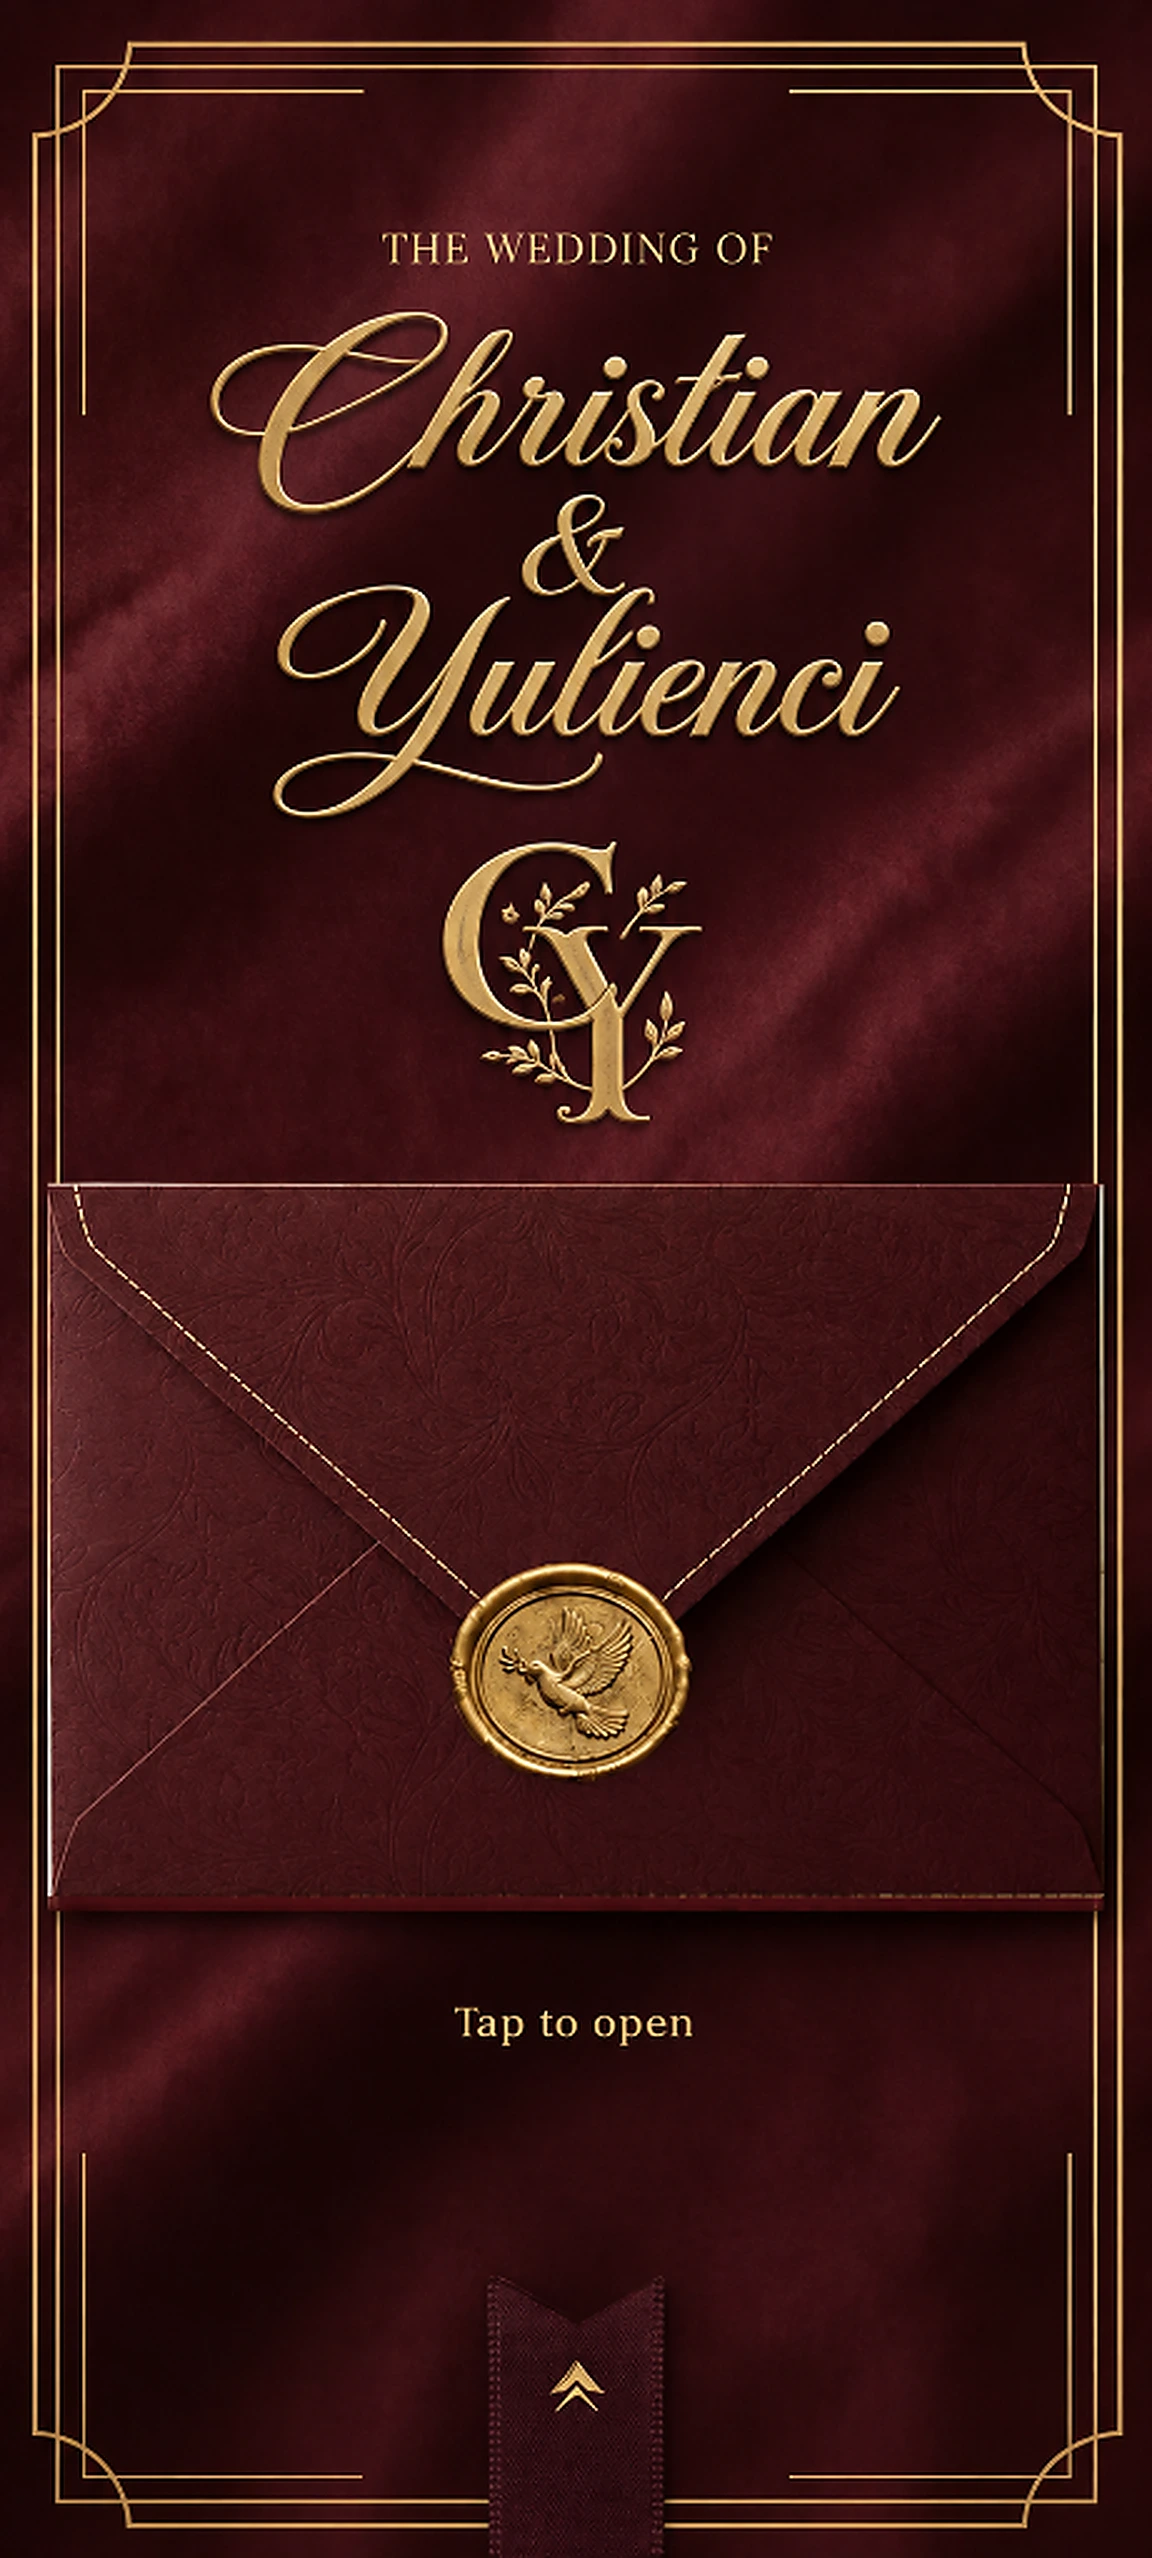
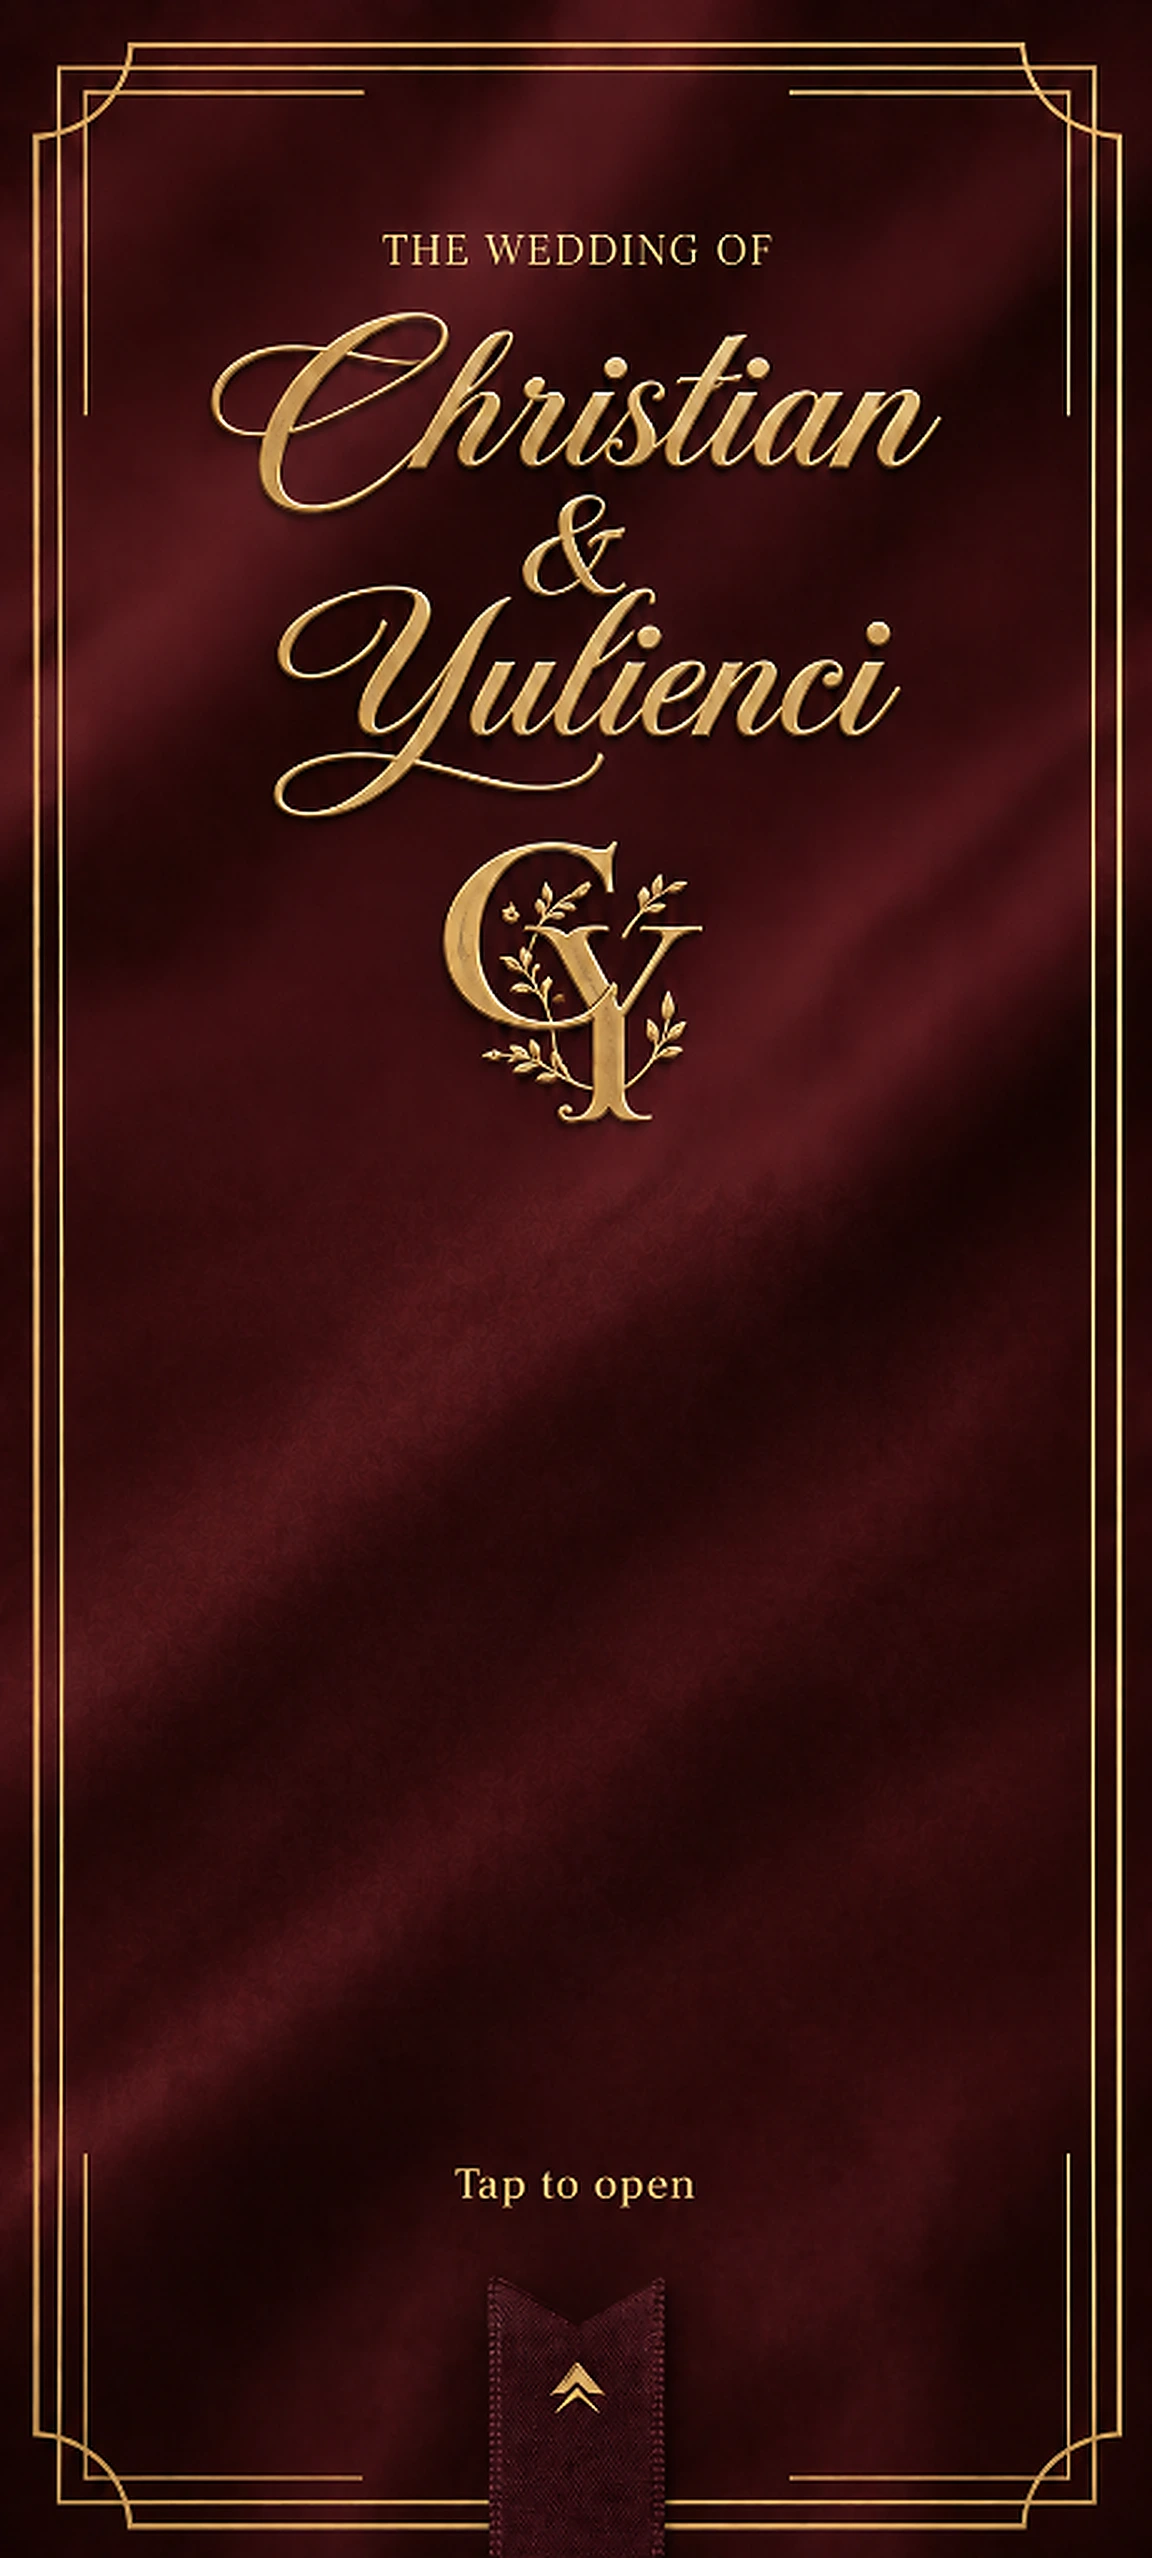
Use clean cover background without envelope, lock envelope to fixed natural aspect ratio, and center wax seal glow

diff --git a/components/sections/EnvelopeOpening.tsx b/components/sections/EnvelopeOpening.tsx
@@ -78,7 +78,7 @@ export default function EnvelopeOpening({ onOpen }: EnvelopeOpeningProps) {
             duration: 0.85,
             ease: [0.22, 1, 0.36, 1],
           }}
-          className={`absolute top-[46.28%] left-1/2 -translate-x-1/2 w-[76%] max-w-[290px] aspect-[290/220] bg-[#faf7f2] rounded-xs shadow-[0_20px_45px_rgba(0,0,0,0.95)] border border-[#d4af37]/80 flex flex-col items-center justify-between p-2 sm:p-2.5 text-center ${
+          className={`absolute top-[50.4%] left-1/2 -translate-x-1/2 w-[76%] max-w-[290px] aspect-[290/220] bg-[#faf7f2] rounded-xs shadow-[0_20px_45px_rgba(0,0,0,0.95)] border border-[#d4af37]/80 flex flex-col items-center justify-between p-2 sm:p-2.5 text-center ${
             isCardSlidOut ? "pointer-events-auto" : "pointer-events-none"
           }`}
           style={{ zIndex: 15 }}
@@ -130,58 +130,55 @@ export default function EnvelopeOpening({ onOpen }: EnvelopeOpeningProps) {
           </div>
         </motion.div>
 
-        {/* 3. Front Envelope Overlay (Matches exact background envelope dimensions to never cover Tap to open) */}
+        {/* 3. Luxury Envelope (Fixed natural aspect ratio 1055:712 so it NEVER stretches or distorts) */}
         <div
-          className="absolute top-[46.28%] left-[4.08%] w-[92.88%] h-[28.42%] pointer-events-none"
+          className="absolute top-[50.4%] left-1/2 -translate-x-1/2 w-[91.5%] aspect-[1055/712] pointer-events-none"
           style={{ zIndex: 20 }}
         >
           <img
             src="/images/envelope_exact.webp"
             alt="Royal Envelope Front"
-            className="w-full h-full object-fill drop-shadow-[0_8px_20px_rgba(0,0,0,0.65)]"
+            className="w-full h-full object-contain drop-shadow-[0_12px_28px_rgba(0,0,0,0.7)]"
           />
-        </div>
 
-        {/* 4. Interactive Pulsing Golden Glow over Wax Seal */}
-        <div
-          className="absolute top-[65.27%] left-1/2 -translate-x-1/2 -translate-y-1/2 pointer-events-none"
-          style={{ zIndex: 25 }}
-        >
-          <motion.div
-            animate={
-              isCardSlidOut
-                ? { opacity: 0 }
-                : {
-                    scale: [1, 1.15, 1],
-                    opacity: [0.35, 0.75, 0.35],
-                  }
-            }
-            transition={{
-              duration: 2.2,
-              repeat: Infinity,
-              ease: "easeInOut",
-            }}
-            className="w-20 sm:w-24 h-20 sm:h-24 rounded-full bg-[radial-gradient(circle,rgba(255,230,150,0.65)_0%,rgba(212,175,55,0.25)_50%,transparent_75%)]"
-          />
-        </div>
-
-        {/* 5. Golden Light Burst Flare on Tap */}
-        <AnimatePresence>
-          {isCardSlidOut && (
+          {/* 4. Interactive Pulsing Golden Glow over Wax Seal (Dead center on seal) */}
+          <div className="absolute top-1/2 left-1/2 -translate-x-1/2 -translate-y-1/2 pointer-events-none">
             <motion.div
-              initial={{ scale: 0.5, opacity: 0 }}
-              animate={{ scale: 2.8, opacity: [0, 0.95, 0] }}
-              exit={{ opacity: 0 }}
-              transition={{ duration: 0.65, ease: "easeOut" }}
-              className="absolute top-[65.27%] left-1/2 -translate-x-1/2 -translate-y-1/2 w-28 sm:w-32 h-28 sm:h-32 rounded-full pointer-events-none"
-              style={{
-                zIndex: 30,
-                background:
-                  "radial-gradient(circle,rgba(255,255,255,0.95)_0%,rgba(255,225,120,0.75)_40%,transparent_70%)",
+              animate={
+                isCardSlidOut
+                  ? { opacity: 0 }
+                  : {
+                      scale: [1, 1.15, 1],
+                      opacity: [0.35, 0.75, 0.35],
+                    }
+              }
+              transition={{
+                duration: 2.2,
+                repeat: Infinity,
+                ease: "easeInOut",
               }}
+              className="w-20 sm:w-24 h-20 sm:h-24 rounded-full bg-[radial-gradient(circle,rgba(255,230,150,0.65)_0%,rgba(212,175,55,0.25)_50%,transparent_75%)]"
             />
-          )}
-        </AnimatePresence>
+          </div>
+
+          {/* 5. Golden Light Burst Flare on Tap */}
+          <AnimatePresence>
+            {isCardSlidOut && (
+              <motion.div
+                initial={{ scale: 0.5, opacity: 0 }}
+                animate={{ scale: 2.8, opacity: [0, 0.95, 0] }}
+                exit={{ opacity: 0 }}
+                transition={{ duration: 0.65, ease: "easeOut" }}
+                className="absolute top-1/2 left-1/2 -translate-x-1/2 -translate-y-1/2 w-28 sm:w-32 h-28 sm:h-32 rounded-full pointer-events-none"
+                style={{
+                  zIndex: 30,
+                  background:
+                    "radial-gradient(circle,rgba(255,255,255,0.95)_0%,rgba(255,225,120,0.75)_40%,transparent_70%)",
+                }}
+              />
+            )}
+          </AnimatePresence>
+        </div>
 
         {/* 6. Subtle Shimmer across the Cover */}
         <motion.div
